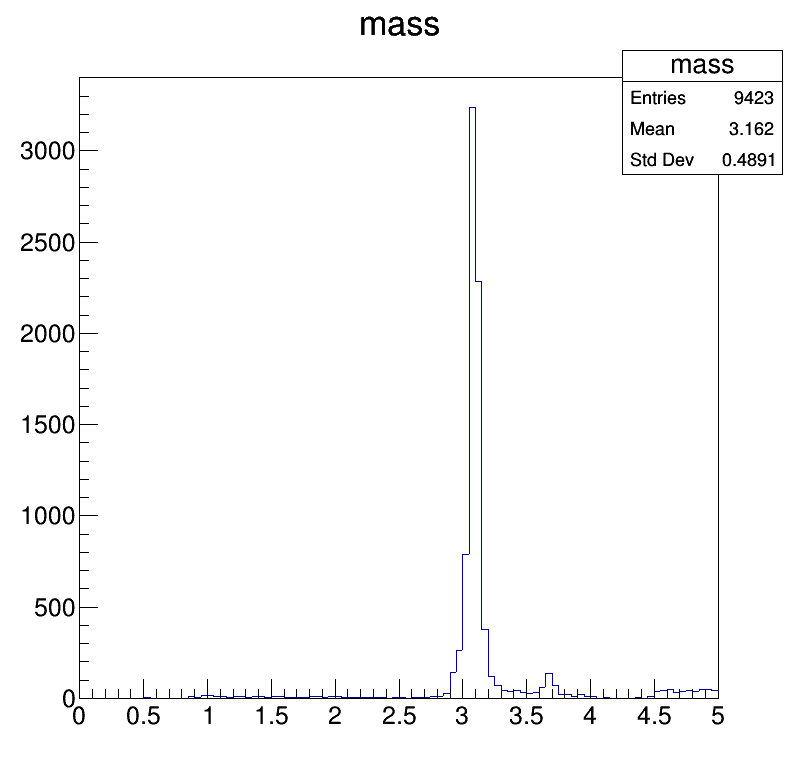
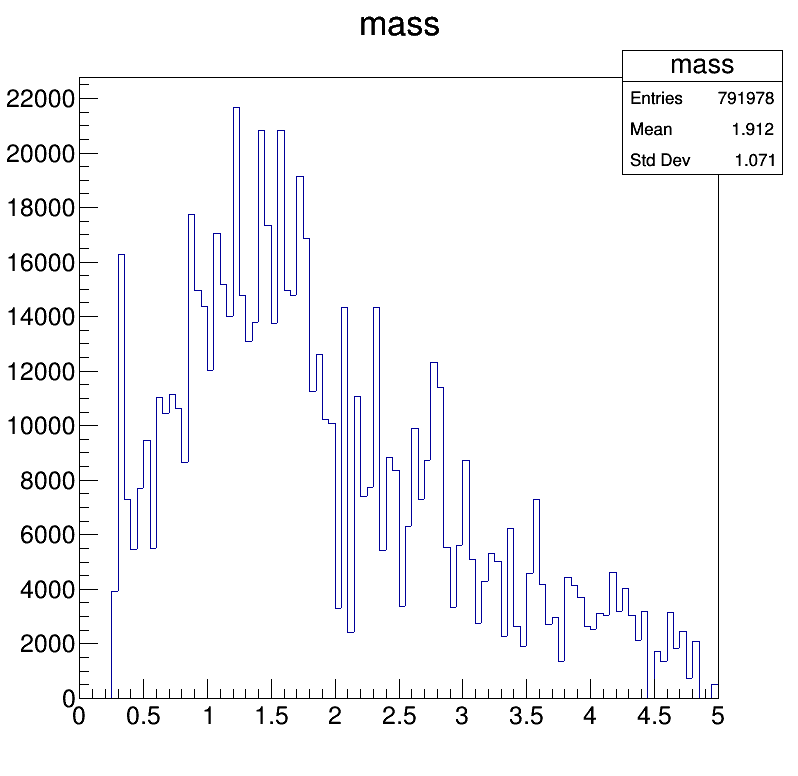
add script for track kinematics

diff --git a/MyDirectory/PrintOutTracks/scripts/kinematics.py b/MyDirectory/PrintOutTracks/scripts/kinematics.py
@@ -1,0 +1,34 @@
+import DataFormats.FWLite as fwlite
+import ROOT
+import math
+
+events = fwlite.Events("/eos/user/c/cmsdas/2023/short-ex-trk/run321167_ZeroBias_AOD.root")
+tracks = fwlite.Handle("std::vector<reco::Track>")
+
+mass_histogram = ROOT.TH1F("mass", "mass", 100, 0.0, 5.0)
+
+for i, event in enumerate(events):
+    event.getByLabel("generalTracks", tracks)
+    for track in tracks.product():
+        print track.pt(), track.p(), track.px(), track.py(), track.pz()
+        print "energy: ", math.sqrt(0.140**2 + track.p()**2)
+
+        if len(tracks.product()) > 1:
+
+            one = tracks.product()[0]
+            two = tracks.product()[1]	      	       	  
+	
+
+            total_energy = math.sqrt(0.140**2 + one.p()**2) + math.sqrt(0.140**2 + two.p()**2)
+            total_px = one.px() + two.px()
+            total_py = one.py() + two.py()
+            total_pz = one.pz() + two.pz()
+            mass = math.sqrt(total_energy**2 - total_px**2 - total_py**2 - total_pz**2)
+
+            mass_histogram.Fill(mass)
+
+    if i > 1000: break
+    
+c = ROOT.TCanvas ("c", "c", 800, 800)
+mass_histogram.Draw()
+c.SaveAs("mass_2_tracks.png")

diff --git a/MyDirectory/PrintOutTracks/scripts/kinematics_muons.py b/MyDirectory/PrintOutTracks/scripts/kinematics_muons.py
@@ -1,0 +1,16 @@
+import DataFormats.FWLite as fwlite
+import ROOT
+import math
+
+events = fwlite.Events("/eos/user/c/cmsdas/2023/short-ex-trk/run321167_Charmonium_AOD.root")
+tracks = fwlite.Handle("std::vector<reco::Track>")
+
+mass_histogram = ROOT.TH1F("mass", "mass", 100, 0.0, 5.0)
+
+events.toBegin()
+for i, event in enumerate(events):
+    if i >= 15: break            # only the first 15 events
+    print "Event", i
+    event.getByLabel("globalMuons", tracks)
+    for j, track in enumerate(tracks.product()):
+        print "    Track", j, track.charge()/track.pt(), track.phi(), track.eta(), track.dxy(), track.dz()
